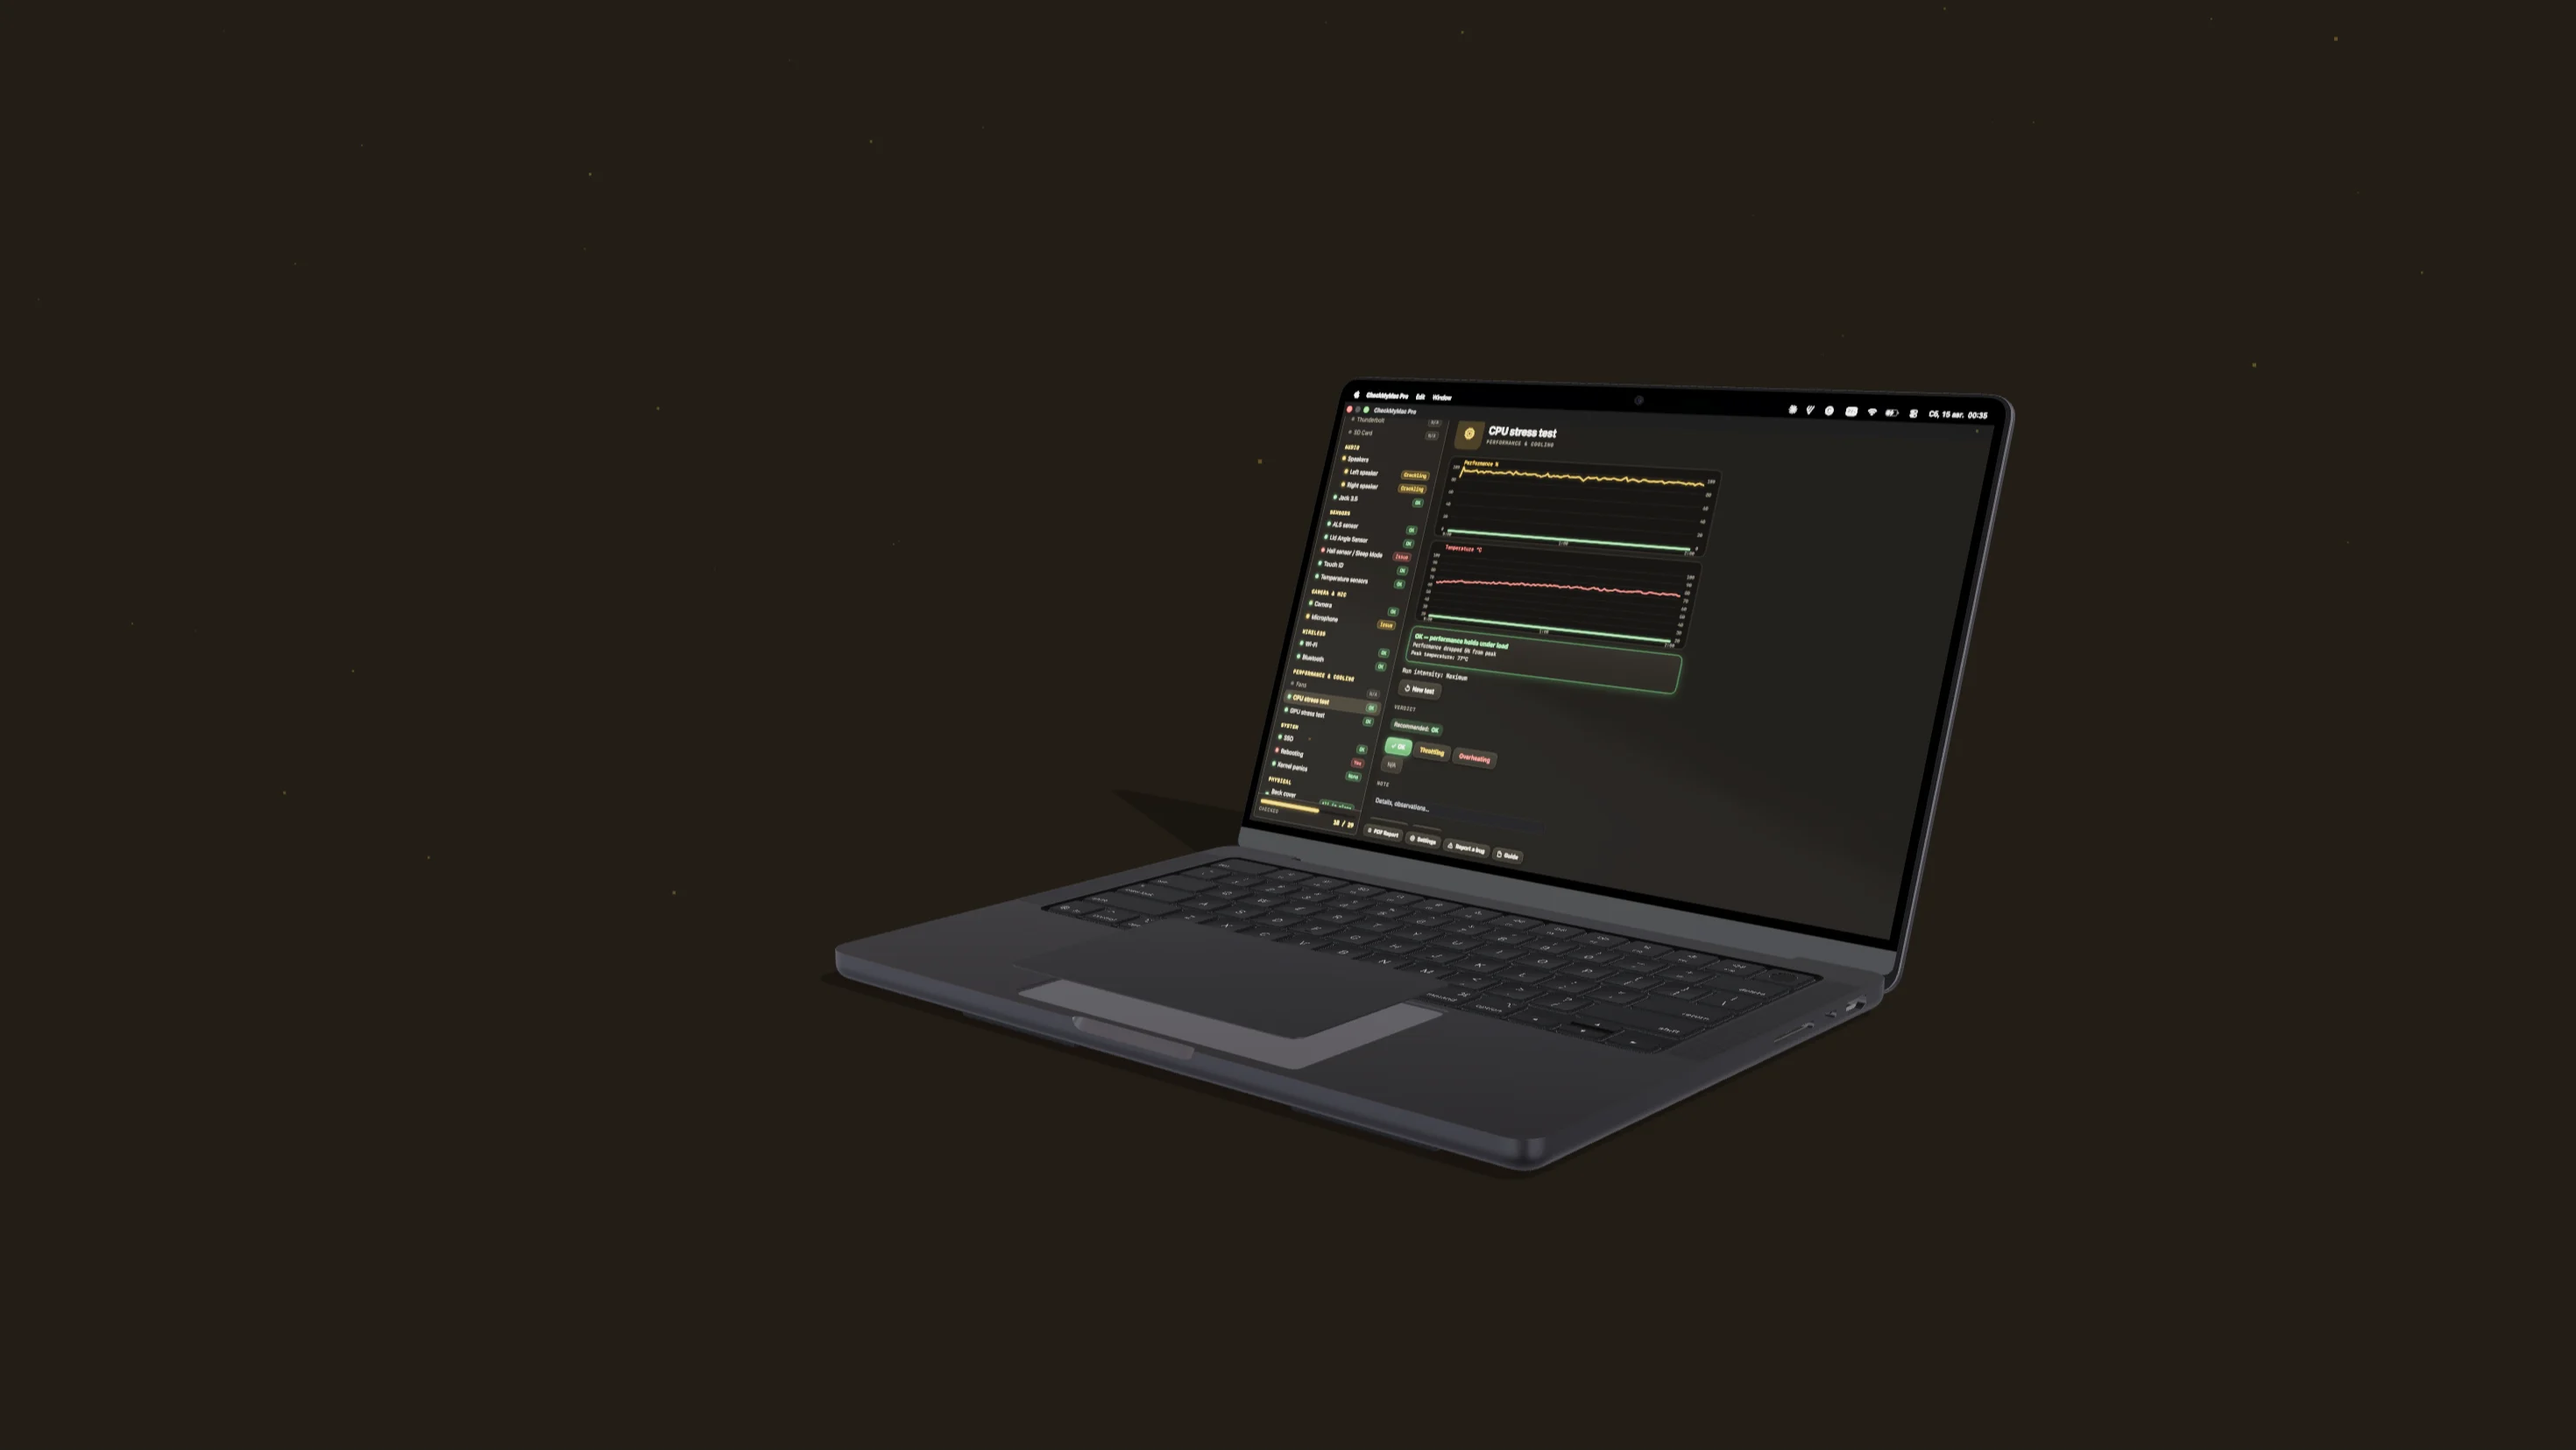
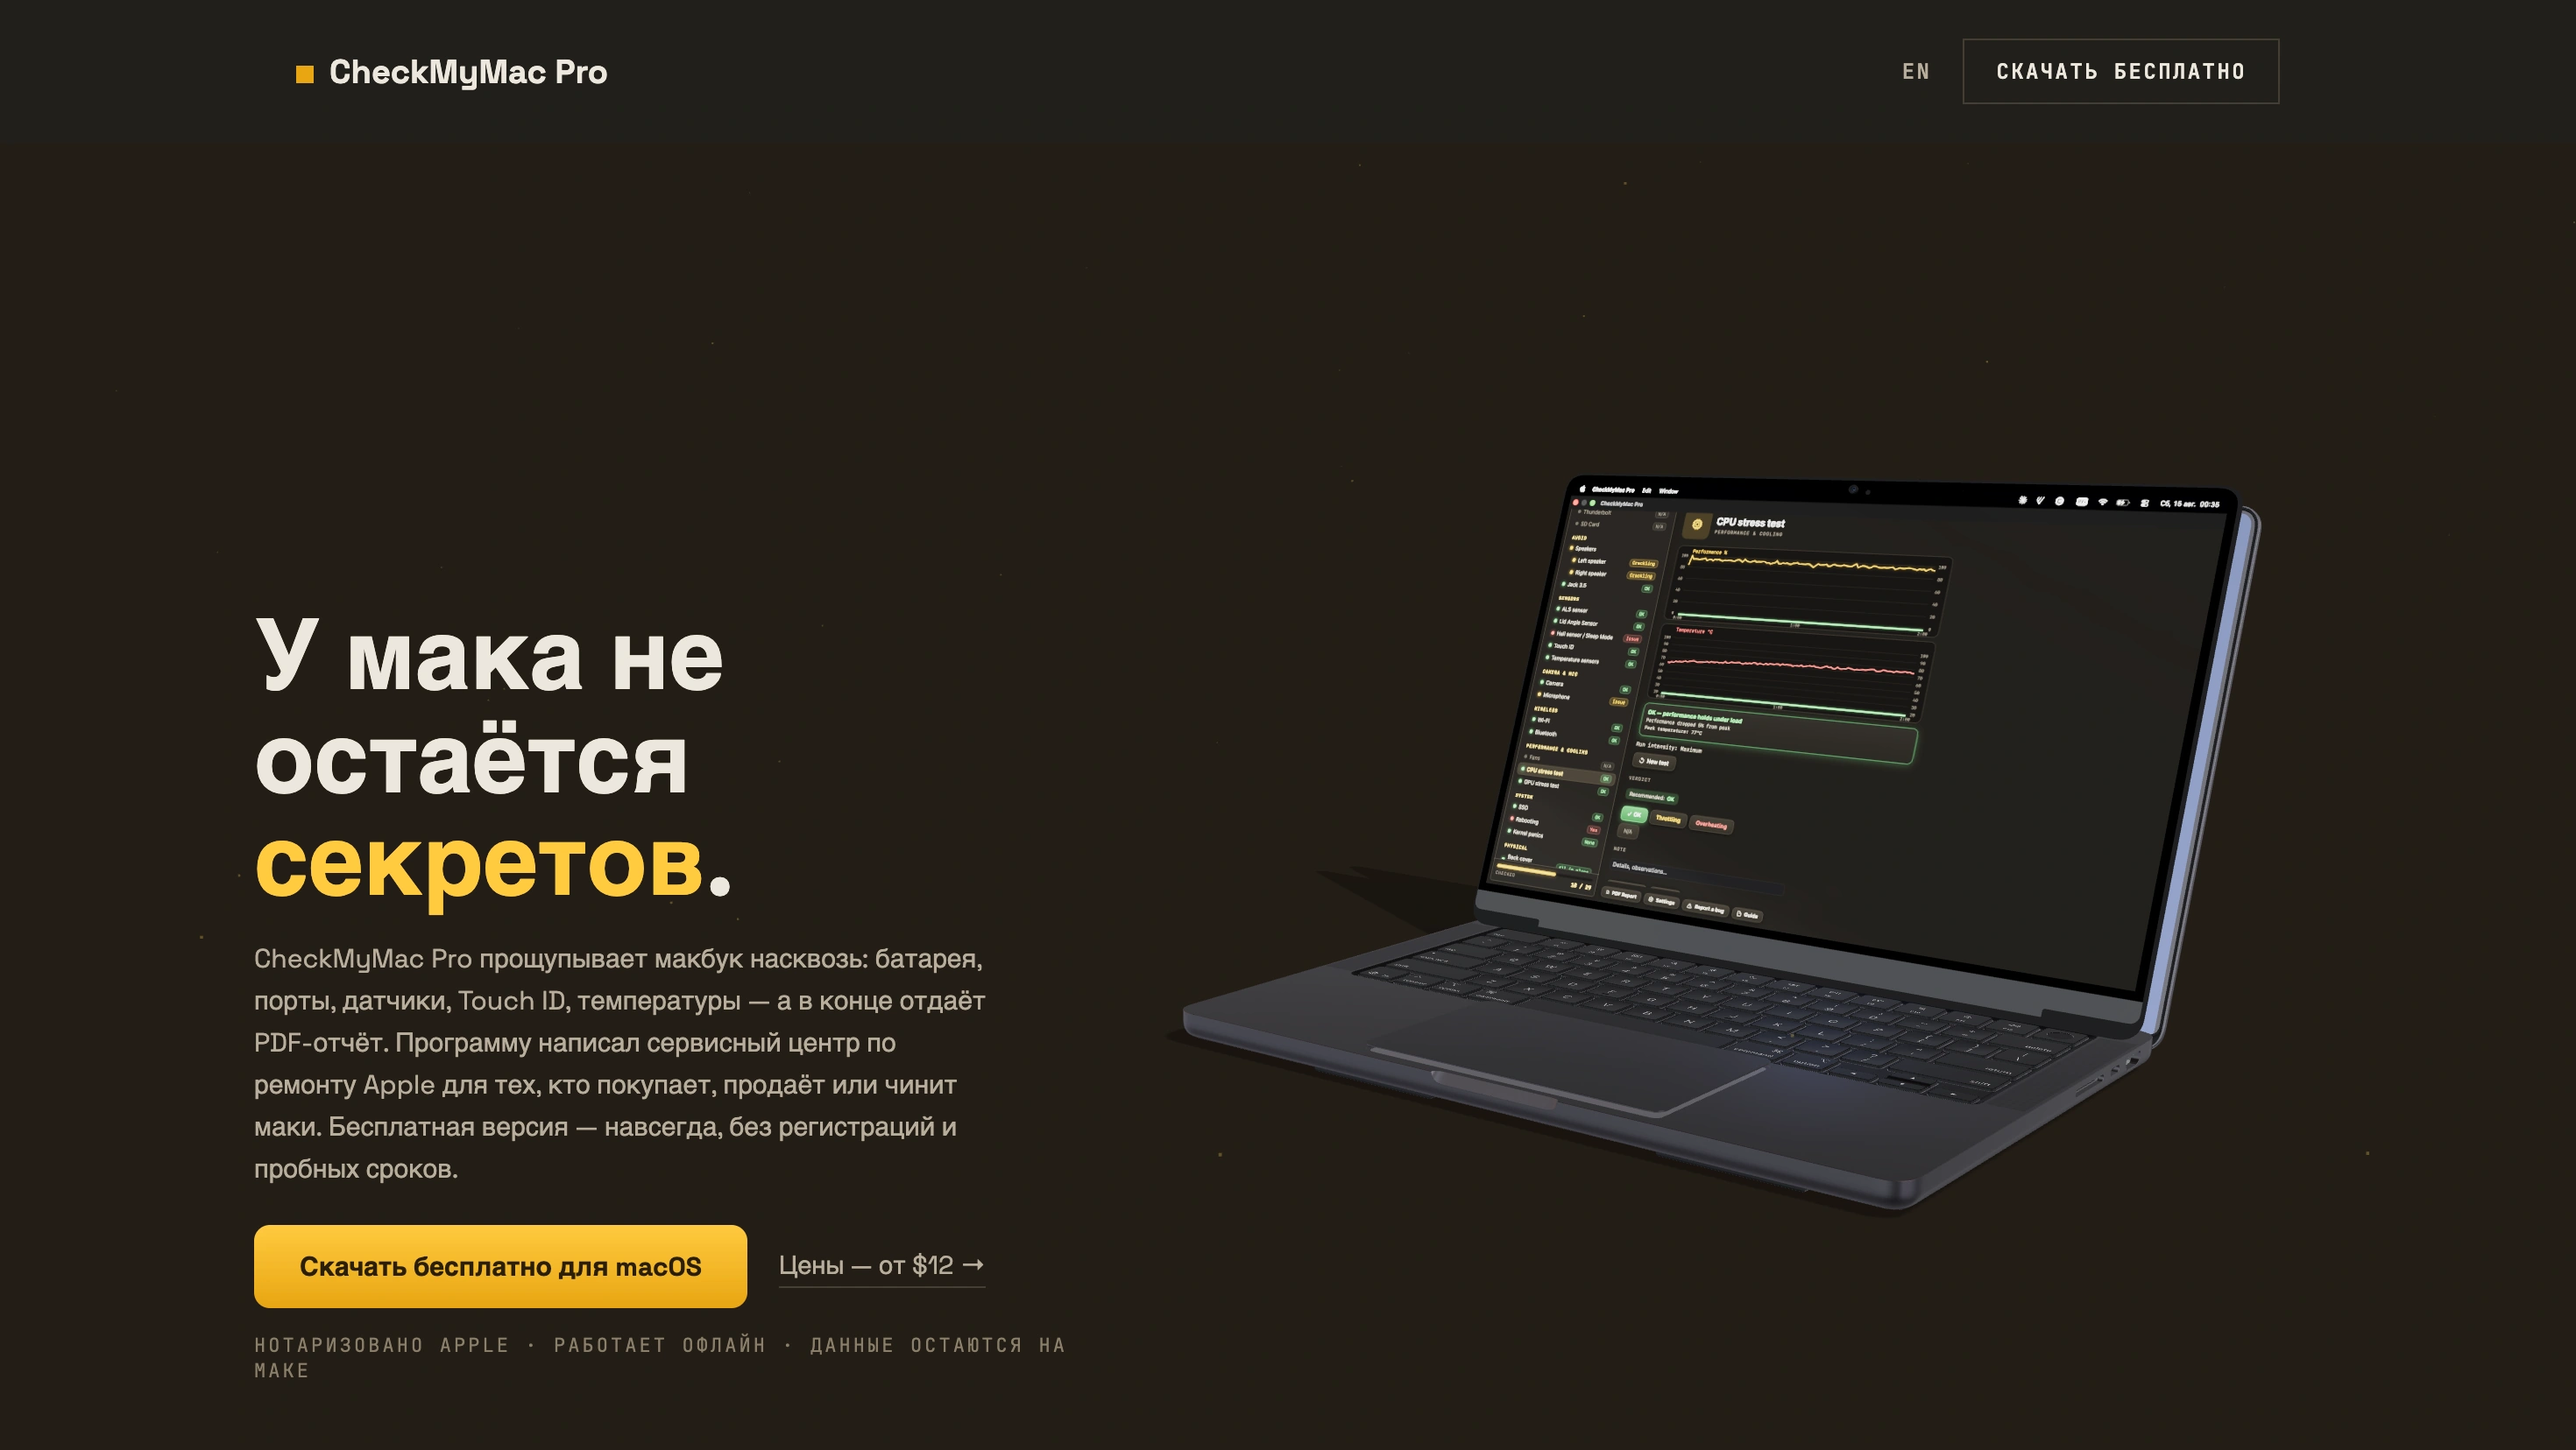
Постер снят с ретина-рендера, версии для hero.js и постера
Проверка в эмуляции Retina (dpr=2) показала: живой 3D рендерится
в полном разрешении и чёткий, а мутным выглядел постер — он снимался
при одинарной плотности. Пересняли прямо из 3D при dpr=2 (2940x1656,
качество 95, 200 КБ) — теперь неотличим от живого рендера.
hero.js и постер получили версии в адресе: без них браузер держал
старые файлы (это и был «мутный мак в русской версии»).

diff --git a/ru/index.html b/ru/index.html
@@ -37,7 +37,7 @@
 
   <section class="hero" aria-label="Разборка MacBook">
     <div id="hero3d"></div>
-    <img class="hero-poster" src="../assets/hero/poster.webp?v=2" srcset="../assets/hero/poster-mobile.webp?v=2 750w, ../assets/hero/poster.webp?v=2 2940w" sizes="100vw" alt="MacBook Pro разобран на детали, у каждой — вердикт диагностики" width="2940" height="1656" fetchpriority="high" decoding="async">
+    <img class="hero-poster" src="../assets/hero/poster.webp?v=3" srcset="../assets/hero/poster-mobile.webp?v=2 750w, ../assets/hero/poster.webp?v=3 2940w" sizes="100vw" alt="MacBook Pro разобран на детали, у каждой — вердикт диагностики" width="2940" height="1656" fetchpriority="high" decoding="async">
     <div class="hero-copy">
       <h1>У мака не остаётся <span>секретов</span>.</h1>
       <p class="sub">CheckMyMac Pro прощупывает макбук насквозь: батарея, порты, датчики, Touch&nbsp;ID, температуры — а в конце отдаёт PDF-отчёт. Программу написал сервисный центр по ремонту Apple для тех, кто покупает, продаёт или чинит маки. Бесплатная версия — навсегда, без регистраций и пробных сроков.</p>
@@ -250,7 +250,7 @@
 } }
 </script>
 <script type="module">
-import { initHero } from '../js/hero.js';
+import { initHero } from '../js/hero.js?v=2';
 initHero({
   container: document.getElementById('hero3d'),
   assets: {

diff --git a/index.html b/index.html
@@ -36,7 +36,7 @@
 
   <section class="hero" aria-label="MacBook teardown">
     <div id="hero3d"></div>
-    <img class="hero-poster" src="assets/hero/poster.webp?v=2" srcset="assets/hero/poster-mobile.webp?v=2 750w, assets/hero/poster.webp?v=2 2940w" sizes="100vw" alt="MacBook Pro opened into parts, every part labeled with a diagnostic verdict" width="2940" height="1656" fetchpriority="high" decoding="async">
+    <img class="hero-poster" src="assets/hero/poster.webp?v=3" srcset="assets/hero/poster-mobile.webp?v=2 750w, assets/hero/poster.webp?v=3 2940w" sizes="100vw" alt="MacBook Pro opened into parts, every part labeled with a diagnostic verdict" width="2940" height="1656" fetchpriority="high" decoding="async">
     <div class="hero-copy">
       <h1>Every part of a MacBook, <span>checked</span>.</h1>
       <p class="sub">CheckMyMac Pro inspects every subsystem of a MacBook — battery, ports, sensors, Touch&nbsp;ID, thermals — and hands you a PDF report. Built by a Mac repair shop for people who buy, sell and service Macs. Free version included — no signup, no trial clock.</p>
@@ -249,7 +249,7 @@
 } }
 </script>
 <script type="module">
-import { initHero } from './js/hero.js';
+import { initHero } from './js/hero.js?v=2';
 initHero({
   container: document.getElementById('hero3d'),
   assets: {
